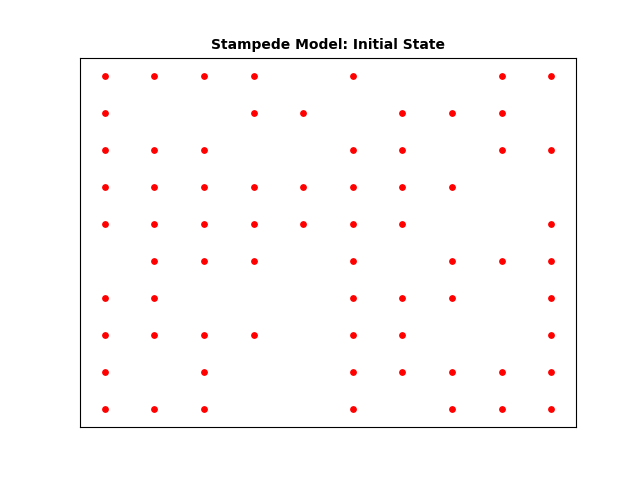
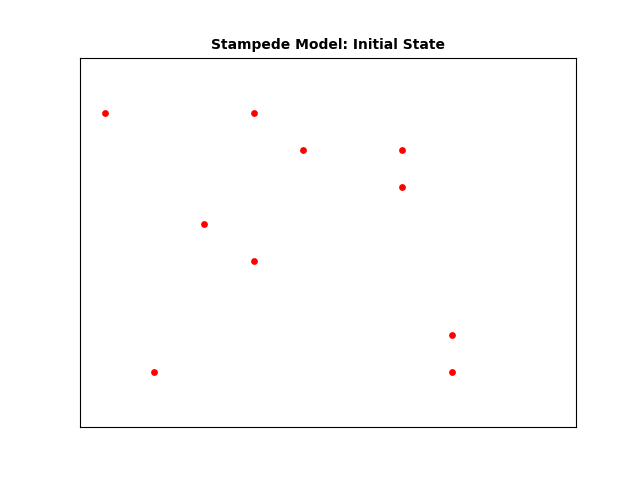
Astar is now a class; integrating it with stampede.py

diff --git a/A_star.py b/A_star.py
@@ -15,183 +15,159 @@ class Cell:
 
 class A_Star:
     def __init__(self, row, col):
-        self.row = row
-        self.col = col
-        
-# Define the size of the grid
-ROW = 9
-COL = 10
- 
-# Check if a cell is valid (within the grid)
-def is_valid(row, col):
-    return (row >= 0) and (row < ROW) and (col >= 0) and (col < COL)
- 
-# Check if a cell is unblocked
-def is_unblocked(grid, row, col):
-    return grid[row][col] == 1
- 
-# Check if a cell is the destination
-def is_destination(row, col, dest):
-    return row == dest[0] and col == dest[1]
- 
-# Calculate the heuristic value of a cell (Euclidean distance to destination)
-def calculate_h_value(row, col, dest):
-    return ((row - dest[0]) ** 2 + (col - dest[1]) ** 2) ** 0.5
- 
-# Trace the path from source to destination
-def trace_path(cell_details, dest):
-    print("The Path is ")
-    path = []
-    row = dest[0]
-    col = dest[1]
- 
-    # Trace the path from destination to source using parent cells
-    while not (cell_details[row][col].parent_i == row and cell_details[row][col].parent_j == col):
-        path.append((row, col))
-        temp_row = cell_details[row][col].parent_i
-        temp_col = cell_details[row][col].parent_j
-        row = temp_row
-        col = temp_col
- 
-    # Add the source cell to the path
-    path.append((row, col))
-    # Reverse the path to get the path from source to destination
-    path.reverse()
- 
-    # Print the path
-    for i in path:
-        print("->", i, end=" ")
-    print()
+        self.ROW = row
+        self.COL = col
 
-# this function returns the first step in the path (that isn't the cell the agent is already in)
-def first_step_of_path(cell_details, dest):
-    path = []
-    row = dest[0]
-    col = dest[1]
+# Define the size of the grid
+# ROW = 9
+# COL = 10
  
-    # Trace the path from destination to source using parent cells
-    while not (cell_details[row][col].parent_i == row and cell_details[row][col].parent_j == col):
+    # Check if a cell is valid (within the grid)
+    def is_valid(self, row, col):
+        return (row >= 0) and (row < self.ROW) and (col >= 0) and (col < self.COL)
+    
+    # Check if a cell is unblocked
+    def is_unblocked(self, grid, row, col):
+        return grid[row][col] == 1
+    
+    # Check if a cell is the destination
+    def is_destination(self, row, col, dest):
+        return row == dest[0] and col == dest[1]
+    
+    # Calculate the heuristic value of a cell (Euclidean distance to destination)
+    def calculate_h_value(self, row, col, dest):
+        return ((row - dest[0]) ** 2 + (col - dest[1]) ** 2) ** 0.5
+    
+    # Trace the path from source to destination
+    def trace_path(self, cell_details, dest):
+        print("The Path is ")
+        path = []
+        row = dest[0]
+        col = dest[1]
+    
+        # Trace the path from destination to source using parent cells
+        while not (cell_details[row][col].parent_i == row and cell_details[row][col].parent_j == col):
+            path.append((row, col))
+            temp_row = cell_details[row][col].parent_i
+            temp_col = cell_details[row][col].parent_j
+            row = temp_row
+            col = temp_col
+    
+        # Add the source cell to the path
         path.append((row, col))
-        temp_row = cell_details[row][col].parent_i
-        temp_col = cell_details[row][col].parent_j
-        row = temp_row
-        col = temp_col
- 
-    # Add the source cell to the path
-    path.append((row, col))
-    # Reverse the path to get the path from source to destination
-    path.reverse()
-    return path[1]
- 
-# Implement the A* search algorithm
-def a_star_search(grid, src, dest):
-    # Check if the source and destination are valid
-    if not is_valid(src[0], src[1]) or not is_valid(dest[0], dest[1]):
-        print("Source or destination is invalid")
-        return
- 
-    # Check if the source and destination are unblocked
-    if not is_unblocked(grid, src[0], src[1]) or not is_unblocked(grid, dest[0], dest[1]):
-        print("Source or the destination is blocked")
-        return
- 
-    # Check if we are already at the destination
-    if is_destination(src[0], src[1], dest):
-        print("We are already at the destination")
-        return
- 
-    # Initialize the closed list (visited cells)
-    closed_list = [[False for _ in range(COL)] for _ in range(ROW)]
-    # Initialize the details of each cell
-    cell_details = [[Cell() for _ in range(COL)] for _ in range(ROW)]  # start grid with cell details?
- 
-    # Initialize the start cell details
-    i = src[0]
-    j = src[1]
-    cell_details[i][j].f = 0
-    cell_details[i][j].g = 0
-    cell_details[i][j].h = 0
-    cell_details[i][j].parent_i = i
-    cell_details[i][j].parent_j = j
- 
-    # Initialize the open list (cells to be visited) with the start cell
-    open_list = []
-    heapq.heappush(open_list, (0.0, i, j))
- 
-    # Initialize the flag for whether destination is found
-    found_dest = False
- 
-    # Main loop of A* search algorithm
-    while len(open_list) > 0:
-        # Pop the cell with the smallest f value from the open list
-        p = heapq.heappop(open_list)
- 
-        # Mark the cell as visited
-        i = p[1]
-        j = p[2]
-        closed_list[i][j] = True
- 
-        # For each direction, check the successors
-        directions = [(0, 1), (0, -1), (1, 0), (-1, 0), (1, 1), (1, -1), (-1, 1), (-1, -1)]
-        for dir in directions:
-            new_i = i + dir[0]
-            new_j = j + dir[1]
- 
-            # If the successor is valid, unblocked, and not visited
-            if is_valid(new_i, new_j) and is_unblocked(grid, new_i, new_j) and not closed_list[new_i][new_j]:
-                # If the successor is the destination
-                if is_destination(new_i, new_j, dest):
-                    # Set the parent of the destination cell
-                    cell_details[new_i][new_j].parent_i = i
-                    cell_details[new_i][new_j].parent_j = j
-                    print("The destination cell is found")
-                    # Trace and print the path from source to destination
-                    trace_path(cell_details, dest)
-                    firstStep = first_step_of_path(cell_details, dest) # added this, it returns first step of path
-                    found_dest = True
-                    return firstStep # return the first step of the path from the algorithm
-                else:
-                    # Calculate the new f, g, and h values
-                    g_new = cell_details[i][j].g + 1.0
-                    h_new = calculate_h_value(new_i, new_j, dest)
-                    f_new = g_new + h_new
- 
-                    # If the cell is not in the open list or the new f value is smaller
-                    if cell_details[new_i][new_j].f == float('inf') or cell_details[new_i][new_j].f > f_new:
-                        # Add the cell to the open list
-                        heapq.heappush(open_list, (f_new, new_i, new_j))
-                        # Update the cell details
-                        cell_details[new_i][new_j].f = f_new
-                        cell_details[new_i][new_j].g = g_new
-                        cell_details[new_i][new_j].h = h_new
+        # Reverse the path to get the path from source to destination
+        path.reverse()
+    
+        # Print the path
+        for i in path:
+            print("->", i, end=" ")
+        print()
+
+    # this function returns the first step in the path (that isn't the cell the agent is already in)
+    def first_step_of_path(self, cell_details, dest):
+        path = []
+        row = dest[0]
+        col = dest[1]
+    
+        # Trace the path from destination to source using parent cells
+        while not (cell_details[row][col].parent_i == row and cell_details[row][col].parent_j == col):
+            path.append((row, col))
+            temp_row = cell_details[row][col].parent_i
+            temp_col = cell_details[row][col].parent_j
+            row = temp_row
+            col = temp_col
+    
+        # Add the source cell to the path
+        path.append((row, col))
+        # Reverse the path to get the path from source to destination
+        path.reverse()
+        return path[1]
+    
+    # Implement the A* search algorithm
+    def a_star_search(self, grid, src, dest):
+        # Check if the source and destination are valid
+        if not self.is_valid(src[0], src[1]) or not self.is_valid(dest[0], dest[1]):
+            print("Source or destination is invalid")
+            return
+    
+        # Check if the source and destination are unblocked
+        if not self.is_unblocked(grid, src[0], src[1]) or not self.is_unblocked(grid, dest[0], dest[1]):
+            print("Source or the destination is blocked")
+            return
+    
+        # Check if we are already at the destination
+        if self.is_destination(src[0], src[1], dest):
+            print("We are already at the destination")
+            return
+    
+        # Initialize the closed list (visited cells)
+        closed_list = [[False for _ in range(self.COL)] for _ in range(self.ROW)]
+        # Initialize the details of each cell
+        cell_details = [[Cell() for _ in range(self.COL)] for _ in range(self.ROW)]  # start grid with cell details?
+    
+        # Initialize the start cell details
+        i = src[0]
+        j = src[1]
+        cell_details[i][j].f = 0
+        cell_details[i][j].g = 0
+        cell_details[i][j].h = 0
+        cell_details[i][j].parent_i = i
+        cell_details[i][j].parent_j = j
+    
+        # Initialize the open list (cells to be visited) with the start cell
+        open_list = []
+        heapq.heappush(open_list, (0.0, i, j))
+    
+        # Initialize the flag for whether destination is found
+        found_dest = False
+    
+        # Main loop of A* search algorithm
+        while len(open_list) > 0:
+            # Pop the cell with the smallest f value from the open list
+            p = heapq.heappop(open_list)
+    
+            # Mark the cell as visited
+            i = p[1]
+            j = p[2]
+            closed_list[i][j] = True
+    
+            # For each direction, check the successors
+            directions = [(0, 1), (0, -1), (1, 0), (-1, 0), (1, 1), (1, -1), (-1, 1), (-1, -1)]
+            for dir in directions:
+                new_i = i + dir[0]
+                new_j = j + dir[1]
+    
+                # If the successor is valid, unblocked, and not visited
+                if self.is_valid(new_i, new_j) and self.is_unblocked(grid, new_i, new_j) and not closed_list[new_i][new_j]:
+                    # If the successor is the destination
+                    if self.is_destination(new_i, new_j, dest):
+                        # Set the parent of the destination cell
                         cell_details[new_i][new_j].parent_i = i
                         cell_details[new_i][new_j].parent_j = j
+                        print("The destination cell is found")
+                        # Trace and print the path from source to destination
+                        # self.trace_path(cell_details, dest)
+                        firstStep = self.first_step_of_path(cell_details, dest) # added this, it returns first step of path
+                        found_dest = True
+                        return firstStep # return the first step of the path from the algorithm
+                    else:
+                        # Calculate the new f, g, and h values
+                        g_new = cell_details[i][j].g + 1.0
+                        h_new = self.calculate_h_value(new_i, new_j, dest)
+                        f_new = g_new + h_new
+    
+                        # If the cell is not in the open list or the new f value is smaller
+                        if cell_details[new_i][new_j].f == float('inf') or cell_details[new_i][new_j].f > f_new:
+                            # Add the cell to the open list
+                            heapq.heappush(open_list, (f_new, new_i, new_j))
+                            # Update the cell details
+                            cell_details[new_i][new_j].f = f_new
+                            cell_details[new_i][new_j].g = g_new
+                            cell_details[new_i][new_j].h = h_new
+                            cell_details[new_i][new_j].parent_i = i
+                            cell_details[new_i][new_j].parent_j = j
+    
+        # If the destination is not found after visiting all cells
+        if not found_dest:
+            print("Failed to find the destination cell")
  
-    # If the destination is not found after visiting all cells
-    if not found_dest:
-        print("Failed to find the destination cell")
- 
-def main():
-    # Define the grid (1 for unblocked, 0 for blocked)
-    grid = [
-        [1, 0, 1, 1, 1, 1, 0, 1, 1, 1],
-        [1, 1, 1, 0, 1, 1, 1, 0, 1, 1],
-        [1, 1, 1, 0, 1, 1, 0, 1, 0, 1],
-        [0, 0, 1, 0, 1, 0, 0, 0, 0, 1],
-        [1, 1, 1, 0, 1, 1, 1, 0, 1, 0],
-        [1, 0, 1, 1, 1, 1, 0, 1, 0, 0],
-        [1, 0, 0, 0, 0, 1, 0, 0, 0, 1],
-        [1, 0, 1, 1, 1, 1, 0, 1, 1, 1],
-        [1, 1, 1, 0, 0, 0, 1, 0, 0, 1]
-    ]
- 
-    # Define the source and destination
-    src = [8, 0]
-    dest = [0, 0]
- 
-    # Run the A* search algorithm
-    firstStep = a_star_search(grid, src, dest)
-    print("the first step is: ", firstStep)
- 
-if __name__ == "__main__":
-    main()

diff --git a/Stampede.py b/Stampede.py
@@ -11,7 +11,7 @@ import itertools
 import random
 import copy
 from Agent import Agent
-from A_star import Cell
+from A_star import Cell, A_Star
 
 class Stampede:
     def __init__(self, width, height, fullRatio, n_iterations, weightDistribution):
@@ -66,9 +66,12 @@ class Stampede:
                 else:
                     self.a_star_copy[i][j] = 1
         
-        # calculate the shortest path from this
+        print("shortest path copy is: ", self.a_star_copy)
         
-
+        # calculate the shortest path from this
+        A_star = A_Star(self.height, self.width) # TODO: THIS MIGHT BE GIVING THE WRONG VAL.S FOR ROW, COL
+        firstStep = A_star.a_star_search(self.a_star_copy, [self.height - 1, self.width - 1], [0,0])
+        print("first step is: ", firstStep)
 
     def move_locations(self):
         total_distance = 0
@@ -334,12 +337,12 @@ class Stampede:
 def main():
     ##Starter Simulation
     weightDistribution = {"mean": 160, "sd": 20}  # not facts idk what weight distribution is
-    stampede = Stampede(10, 10, 0.7, 200, weightDistribution)  # TODO: CHANGE THIS EVENTUALLY TO A BIGGER ARRAY :)
+    stampede = Stampede(10, 10, 0.1, 200, weightDistribution)  # TODO: CHANGE THIS EVENTUALLY TO A BIGGER ARRAY :)
     stampede.populate()
 
     stampede.plot('Stampede Model: Initial State', 'stampede_initial.png')
 
-    stampede.a_star_search(stampede.agents, [5,5], [0,0])
+    stampede.calculate_shortest_path()
 
     # stampede.move_locations()
 
